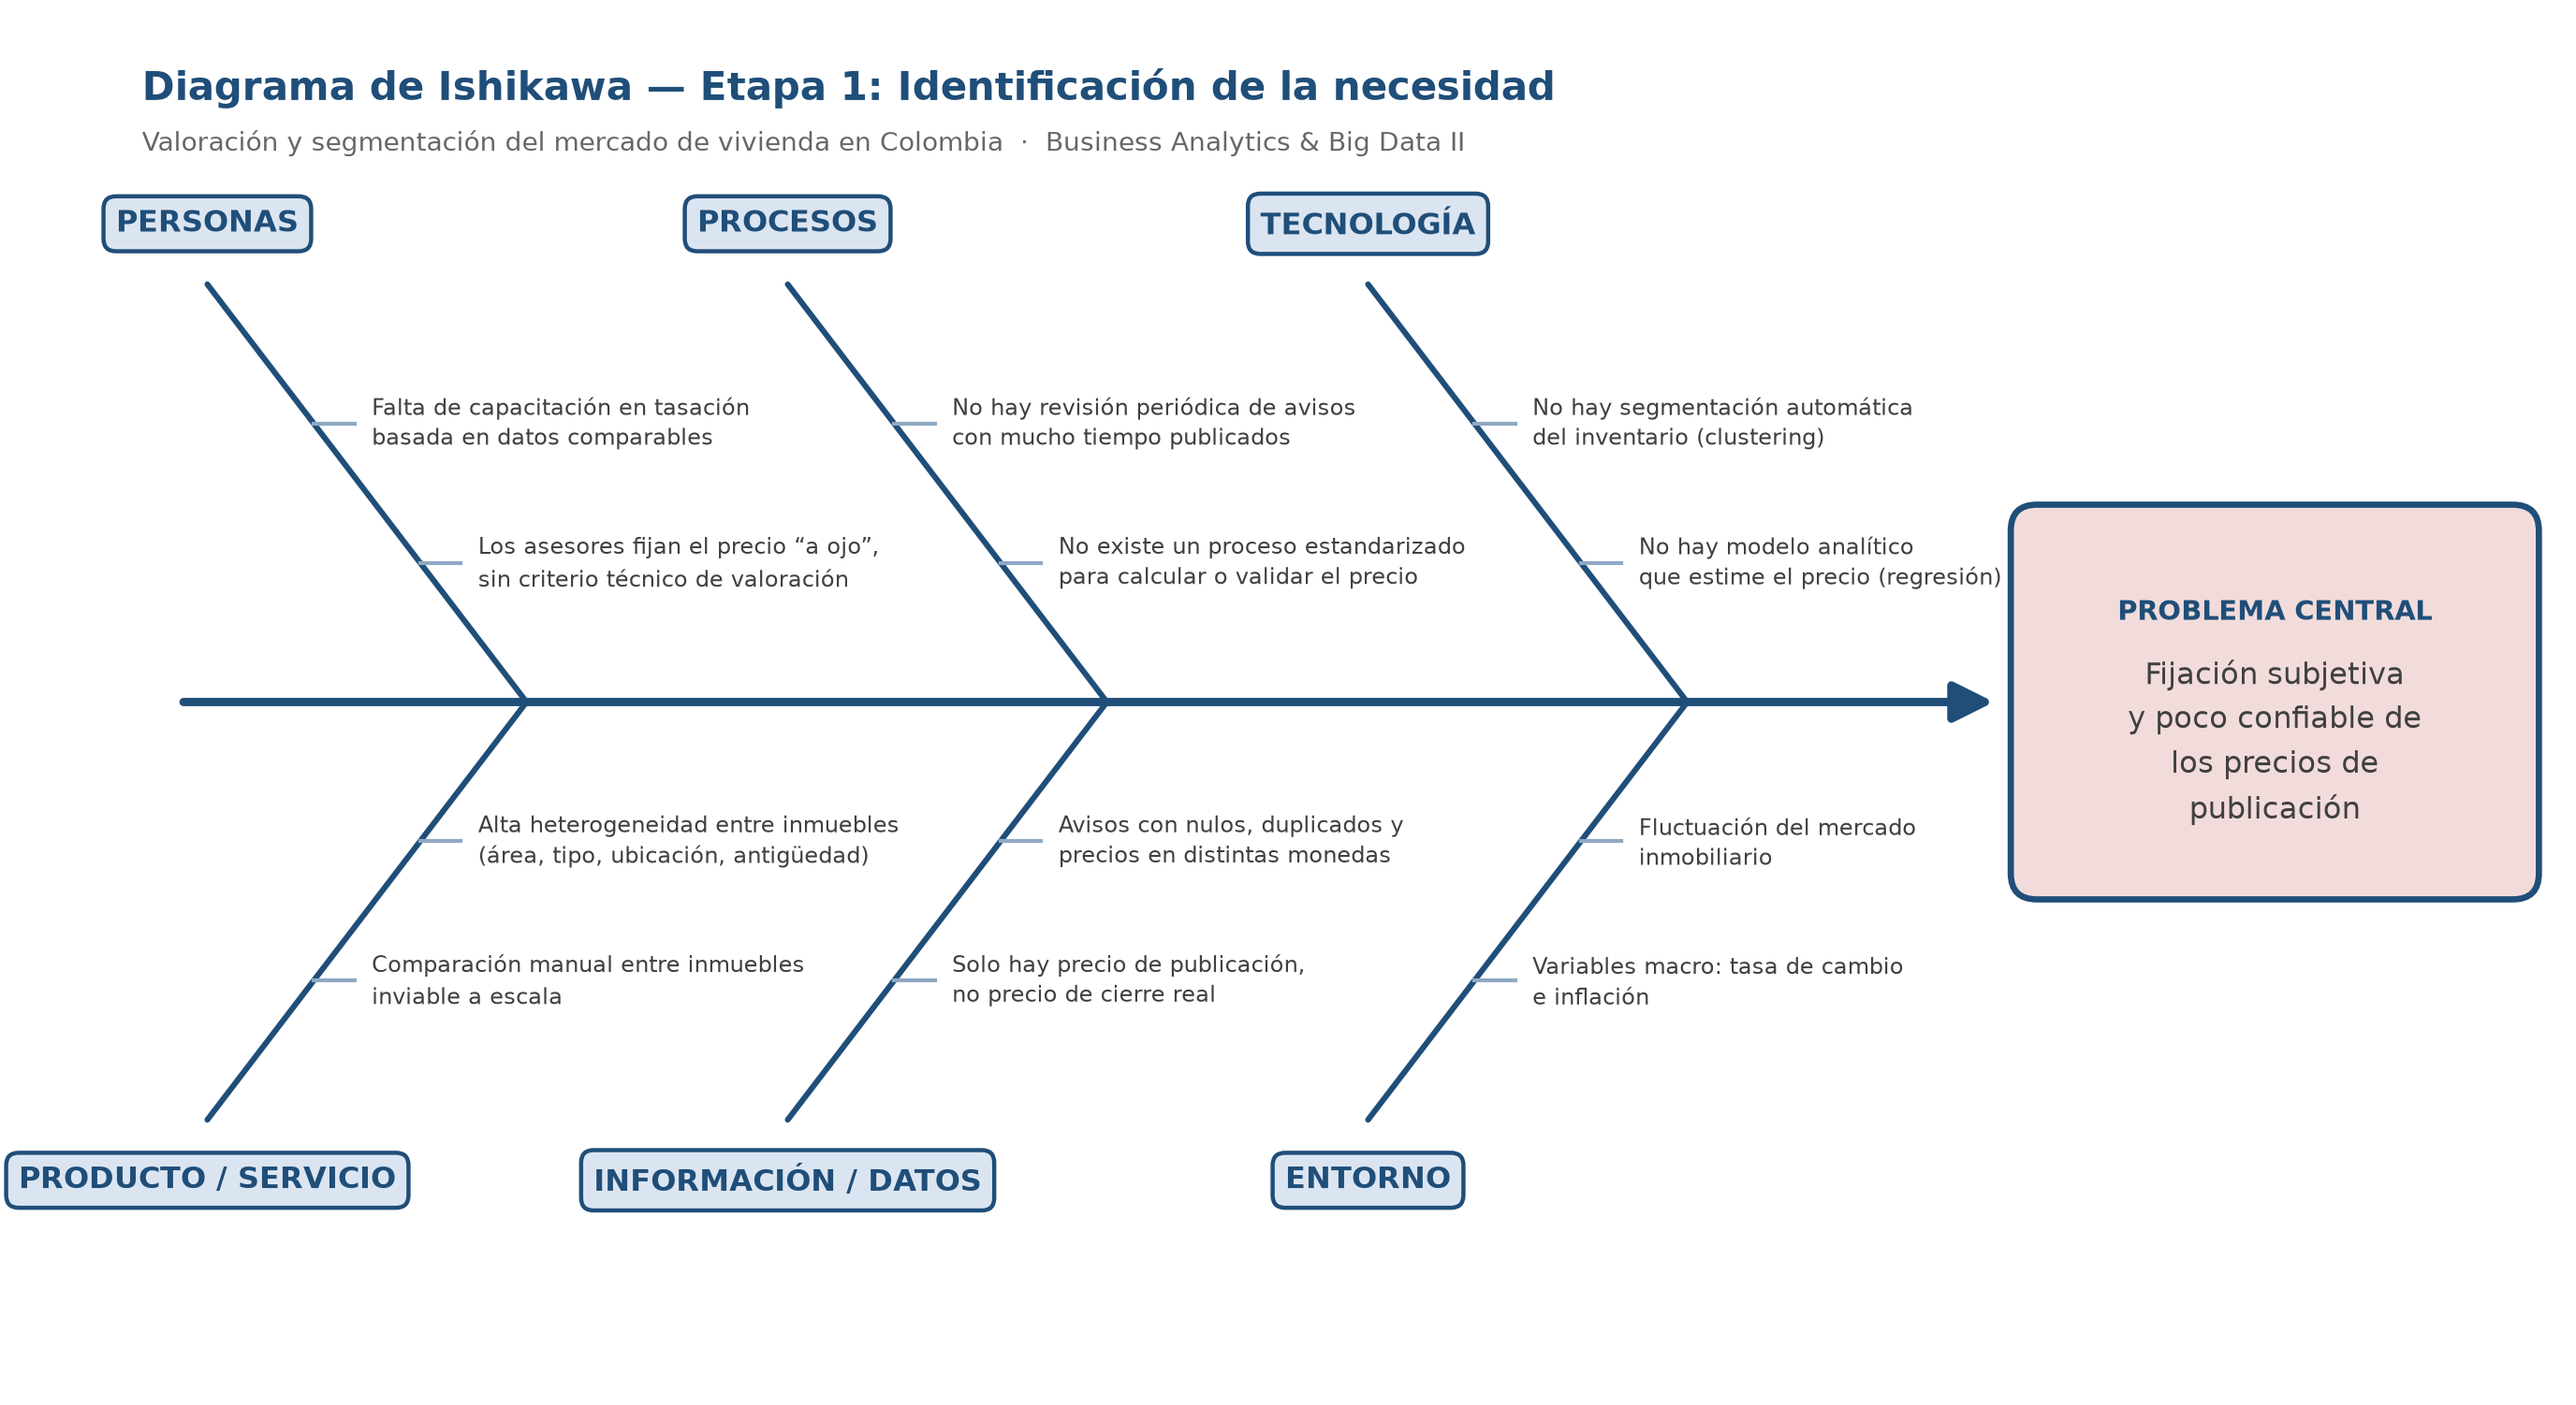
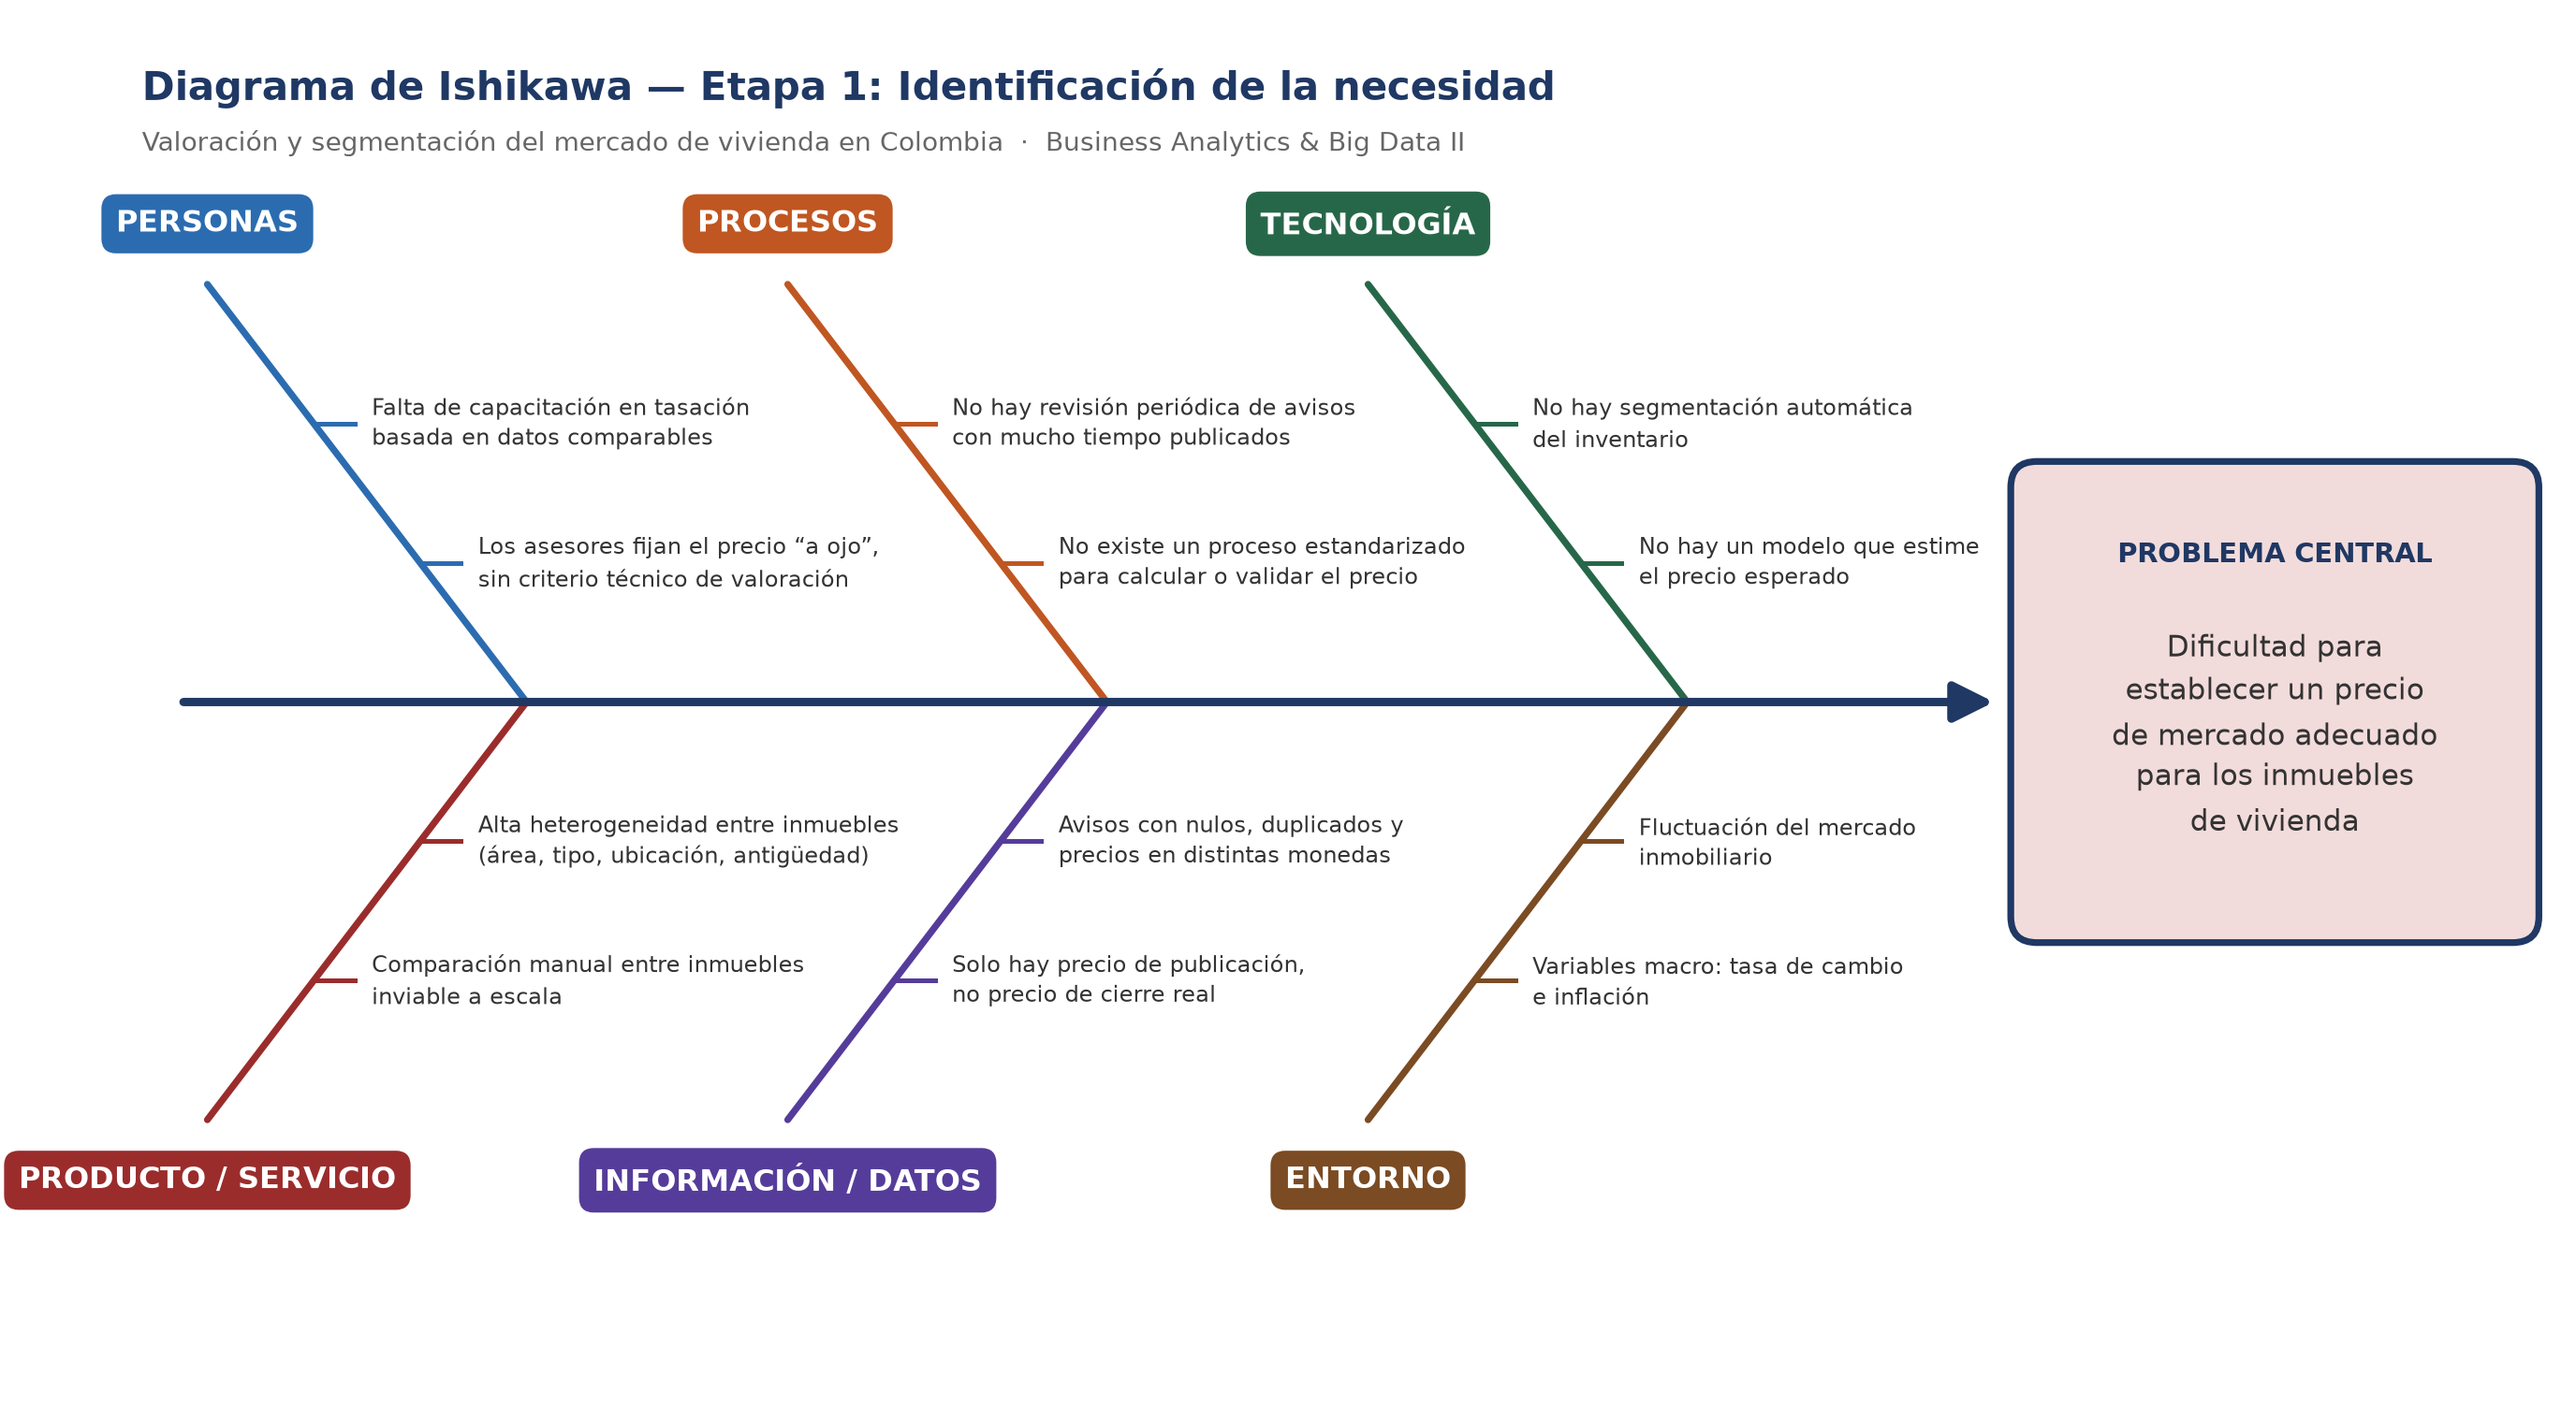
Ishikawa: color por categoria y coherencia con el documento
- Cabeza del diagrama alineada palabra por palabra con el problema central
  declarado en el documento de la entrega.
- Un color por categoria (tomado del diagrama que habia hecho Javier), sin
  depender del color para entender el diagrama: la etiqueta sigue siendo
  la que identifica cada categoria.
- Se retiran las menciones a "(regresion)" y "(clustering)": la guia del
  docente pide no nombrar tecnicas en la Etapa 1.

diff --git a/herramientas/generar_ishikawa.py b/herramientas/generar_ishikawa.py
@@ -21,7 +21,11 @@ from matplotlib.patches import FancyBboxPatch
 
 RAIZ = Path(__file__).resolve().parent.parent
 
-PROBLEMA = "Fijación subjetiva\ny poco confiable de\nlos precios de\npublicación"
+# Debe coincidir PALABRA POR PALABRA con el problema central declarado en el
+# documento de la entrega. Si el diagrama y el texto dicen cosas distintas, la
+# rubrica lo penaliza como incoherencia.
+PROBLEMA = ("Dificultad para\nestablecer un precio\nde mercado adecuado\n"
+            "para los inmuebles\nde vivienda")
 
 # (categoria, [causas])  ->  las 3 primeras van arriba, las 3 siguientes abajo
 CAUSAS = [
@@ -33,9 +37,13 @@ CAUSAS = [
         "No existe un proceso estandarizado\npara calcular o validar el precio",
         "No hay revisión periódica de avisos\ncon mucho tiempo publicados",
     ]),
+    # La guia del docente pide NO nombrar todavia las tecnicas (K-Means,
+    # Machine Learning...): en la Etapa 1 se describe el problema, no la
+    # solucion. Por eso las causas hablan de ausencia de herramientas, sin
+    # mencionar el algoritmo.
     ("TECNOLOGÍA", [
-        "No hay modelo analítico\nque estime el precio (regresión)",
-        "No hay segmentación automática\ndel inventario (clustering)",
+        "No hay un modelo que estime\nel precio esperado",
+        "No hay segmentación automática\ndel inventario",
     ]),
     ("PRODUCTO / SERVICIO", [
         "Alta heterogeneidad entre inmuebles\n(área, tipo, ubicación, antigüedad)",
@@ -51,9 +59,20 @@ CAUSAS = [
     ]),
 ]
 
-AZUL = "#1f4e79"
-GRIS = "#404040"
-FONDO_CAT = "#dbe5f1"
+AZUL = "#1f3864"      # espina central y titulos (azul institucional)
+GRIS = "#333333"
+
+# Un color por categoria, en el mismo orden de CAUSAS. Ayuda a leer el
+# diagrama de un vistazo sin depender del color para entenderlo: la etiqueta
+# de texto sigue siendo la que identifica cada categoria.
+COLORES = [
+    "#2b6cb0",   # Personas          - azul
+    "#c05621",   # Procesos          - naranja
+    "#276749",   # Tecnologia        - verde
+    "#9b2c2c",   # Producto/Servicio - rojo
+    "#553c9a",   # Informacion/Datos - morado
+    "#7b4b23",   # Entorno           - cafe
+]
 
 
 def dibujar() -> Path:
@@ -75,18 +94,18 @@ def dibujar() -> Path:
 
     # --- Cabeza: el problema ---
     cabeza = FancyBboxPatch(
-        (13.35, y_espina - 1.25), 3.4, 2.5,
+        (13.35, y_espina - 1.55), 3.4, 3.1,
         boxstyle="round,pad=0.12,rounding_size=0.18",
-        linewidth=2.4, edgecolor=AZUL, facecolor="#f2dcdb",
+        linewidth=2.6, edgecolor=AZUL, facecolor="#f2dcdb",
     )
     ax.add_patch(cabeza)
     ax.text(
-        15.05, y_espina + 0.62, "PROBLEMA CENTRAL",
+        15.05, y_espina + 1.02, "PROBLEMA CENTRAL",
         ha="center", va="center", fontsize=10.5, weight="bold", color=AZUL,
     )
     ax.text(
-        15.05, y_espina - 0.28, PROBLEMA,
-        ha="center", va="center", fontsize=11.5, color=GRIS, linespacing=1.5,
+        15.05, y_espina - 0.22, PROBLEMA,
+        ha="center", va="center", fontsize=11, color=GRIS, linespacing=1.5,
     )
 
     # --- Espinas por categoria ---
@@ -98,22 +117,23 @@ def dibujar() -> Path:
         arriba = i < 3
         x_base = x_bases[i % 3]
         signo = 1 if arriba else -1
+        color = COLORES[i]
 
         x_punta = x_base - desplazamiento
         y_punta = y_espina + signo * alto
 
-        # Linea diagonal de la espina
+        # Linea diagonal de la espina, en el color de la categoria
         ax.plot(
             [x_punta, x_base], [y_punta, y_espina],
-            color=AZUL, linewidth=2.2, solid_capstyle="round", zorder=2,
+            color=color, linewidth=2.6, solid_capstyle="round", zorder=2,
         )
 
-        # Etiqueta de la categoria
+        # Etiqueta de la categoria: fondo solido y texto blanco
         ax.text(
             x_punta, y_punta + signo * 0.42, categoria,
-            ha="center", va="center", fontsize=11.5, weight="bold", color=AZUL,
-            bbox=dict(boxstyle="round,pad=0.42", facecolor=FONDO_CAT,
-                      edgecolor=AZUL, linewidth=1.6),
+            ha="center", va="center", fontsize=11.5, weight="bold", color="white",
+            bbox=dict(boxstyle="round,pad=0.42", facecolor=color,
+                      edgecolor=color, linewidth=1.6),
             zorder=4,
         )
 
@@ -125,7 +145,7 @@ def dibujar() -> Path:
 
             ax.plot(
                 [x_rama, x_rama + 0.28], [y_rama, y_rama],
-                color="#8fa9c4", linewidth=1.5, zorder=2,
+                color=color, linewidth=1.8, zorder=2,
             )
             ax.text(
                 x_rama + 0.40, y_rama, causa,
